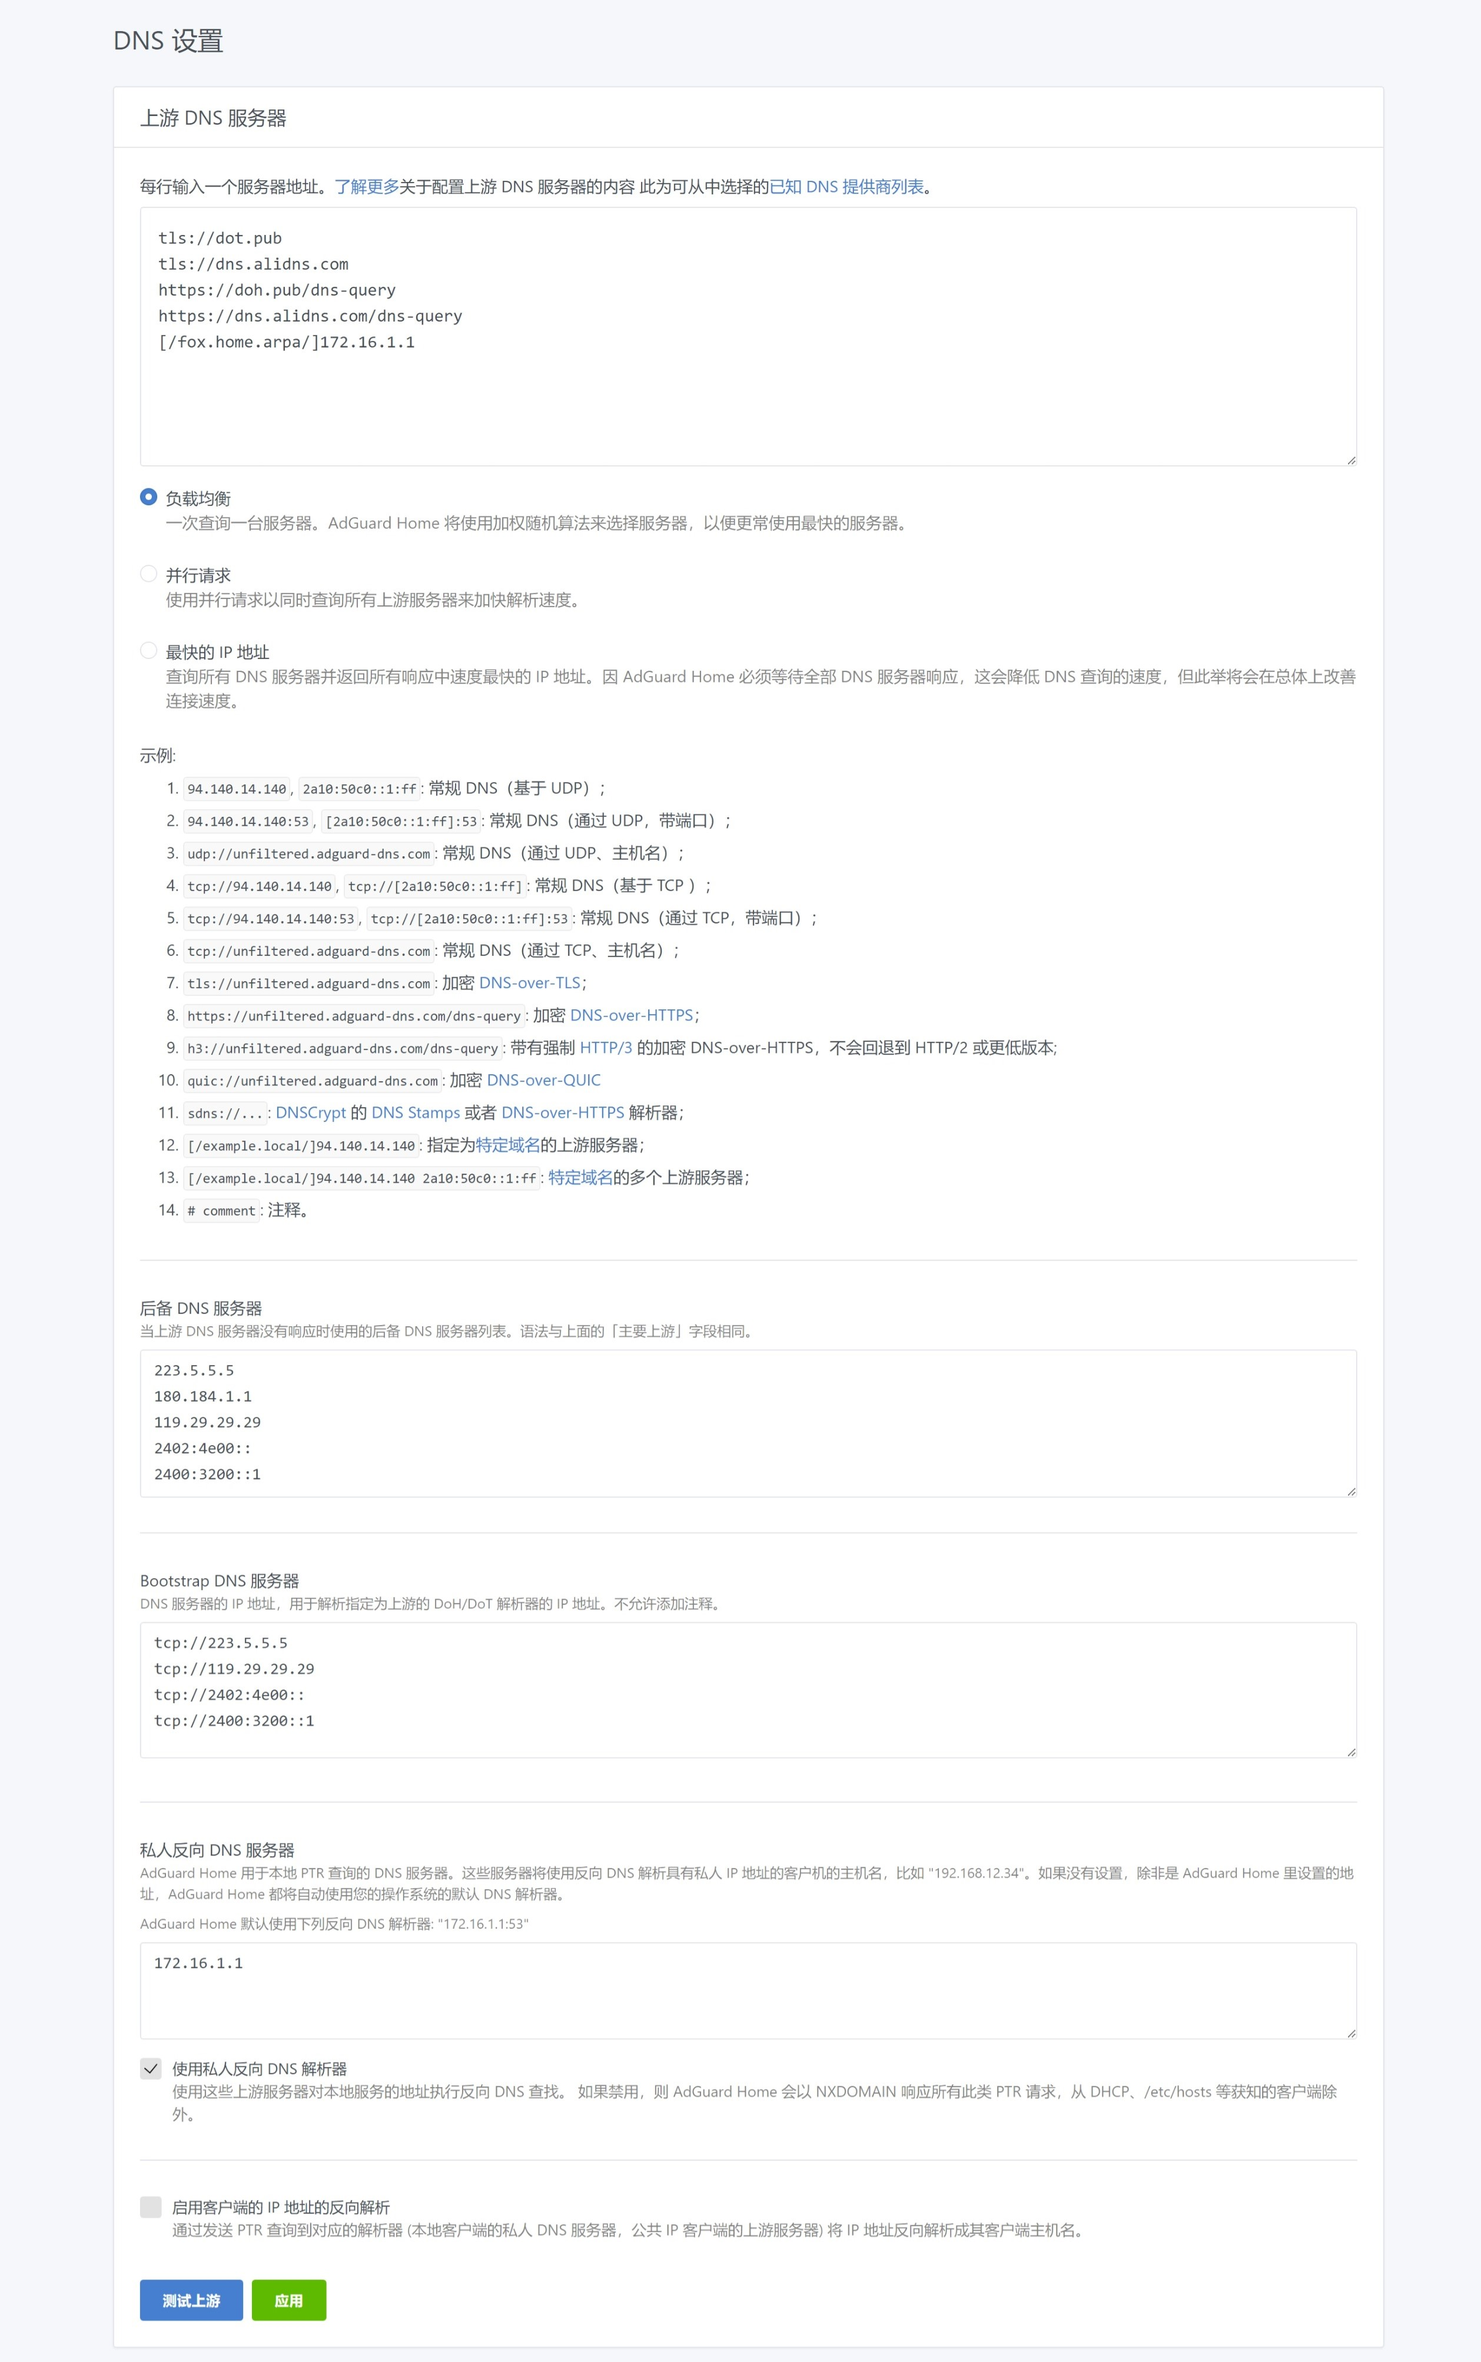
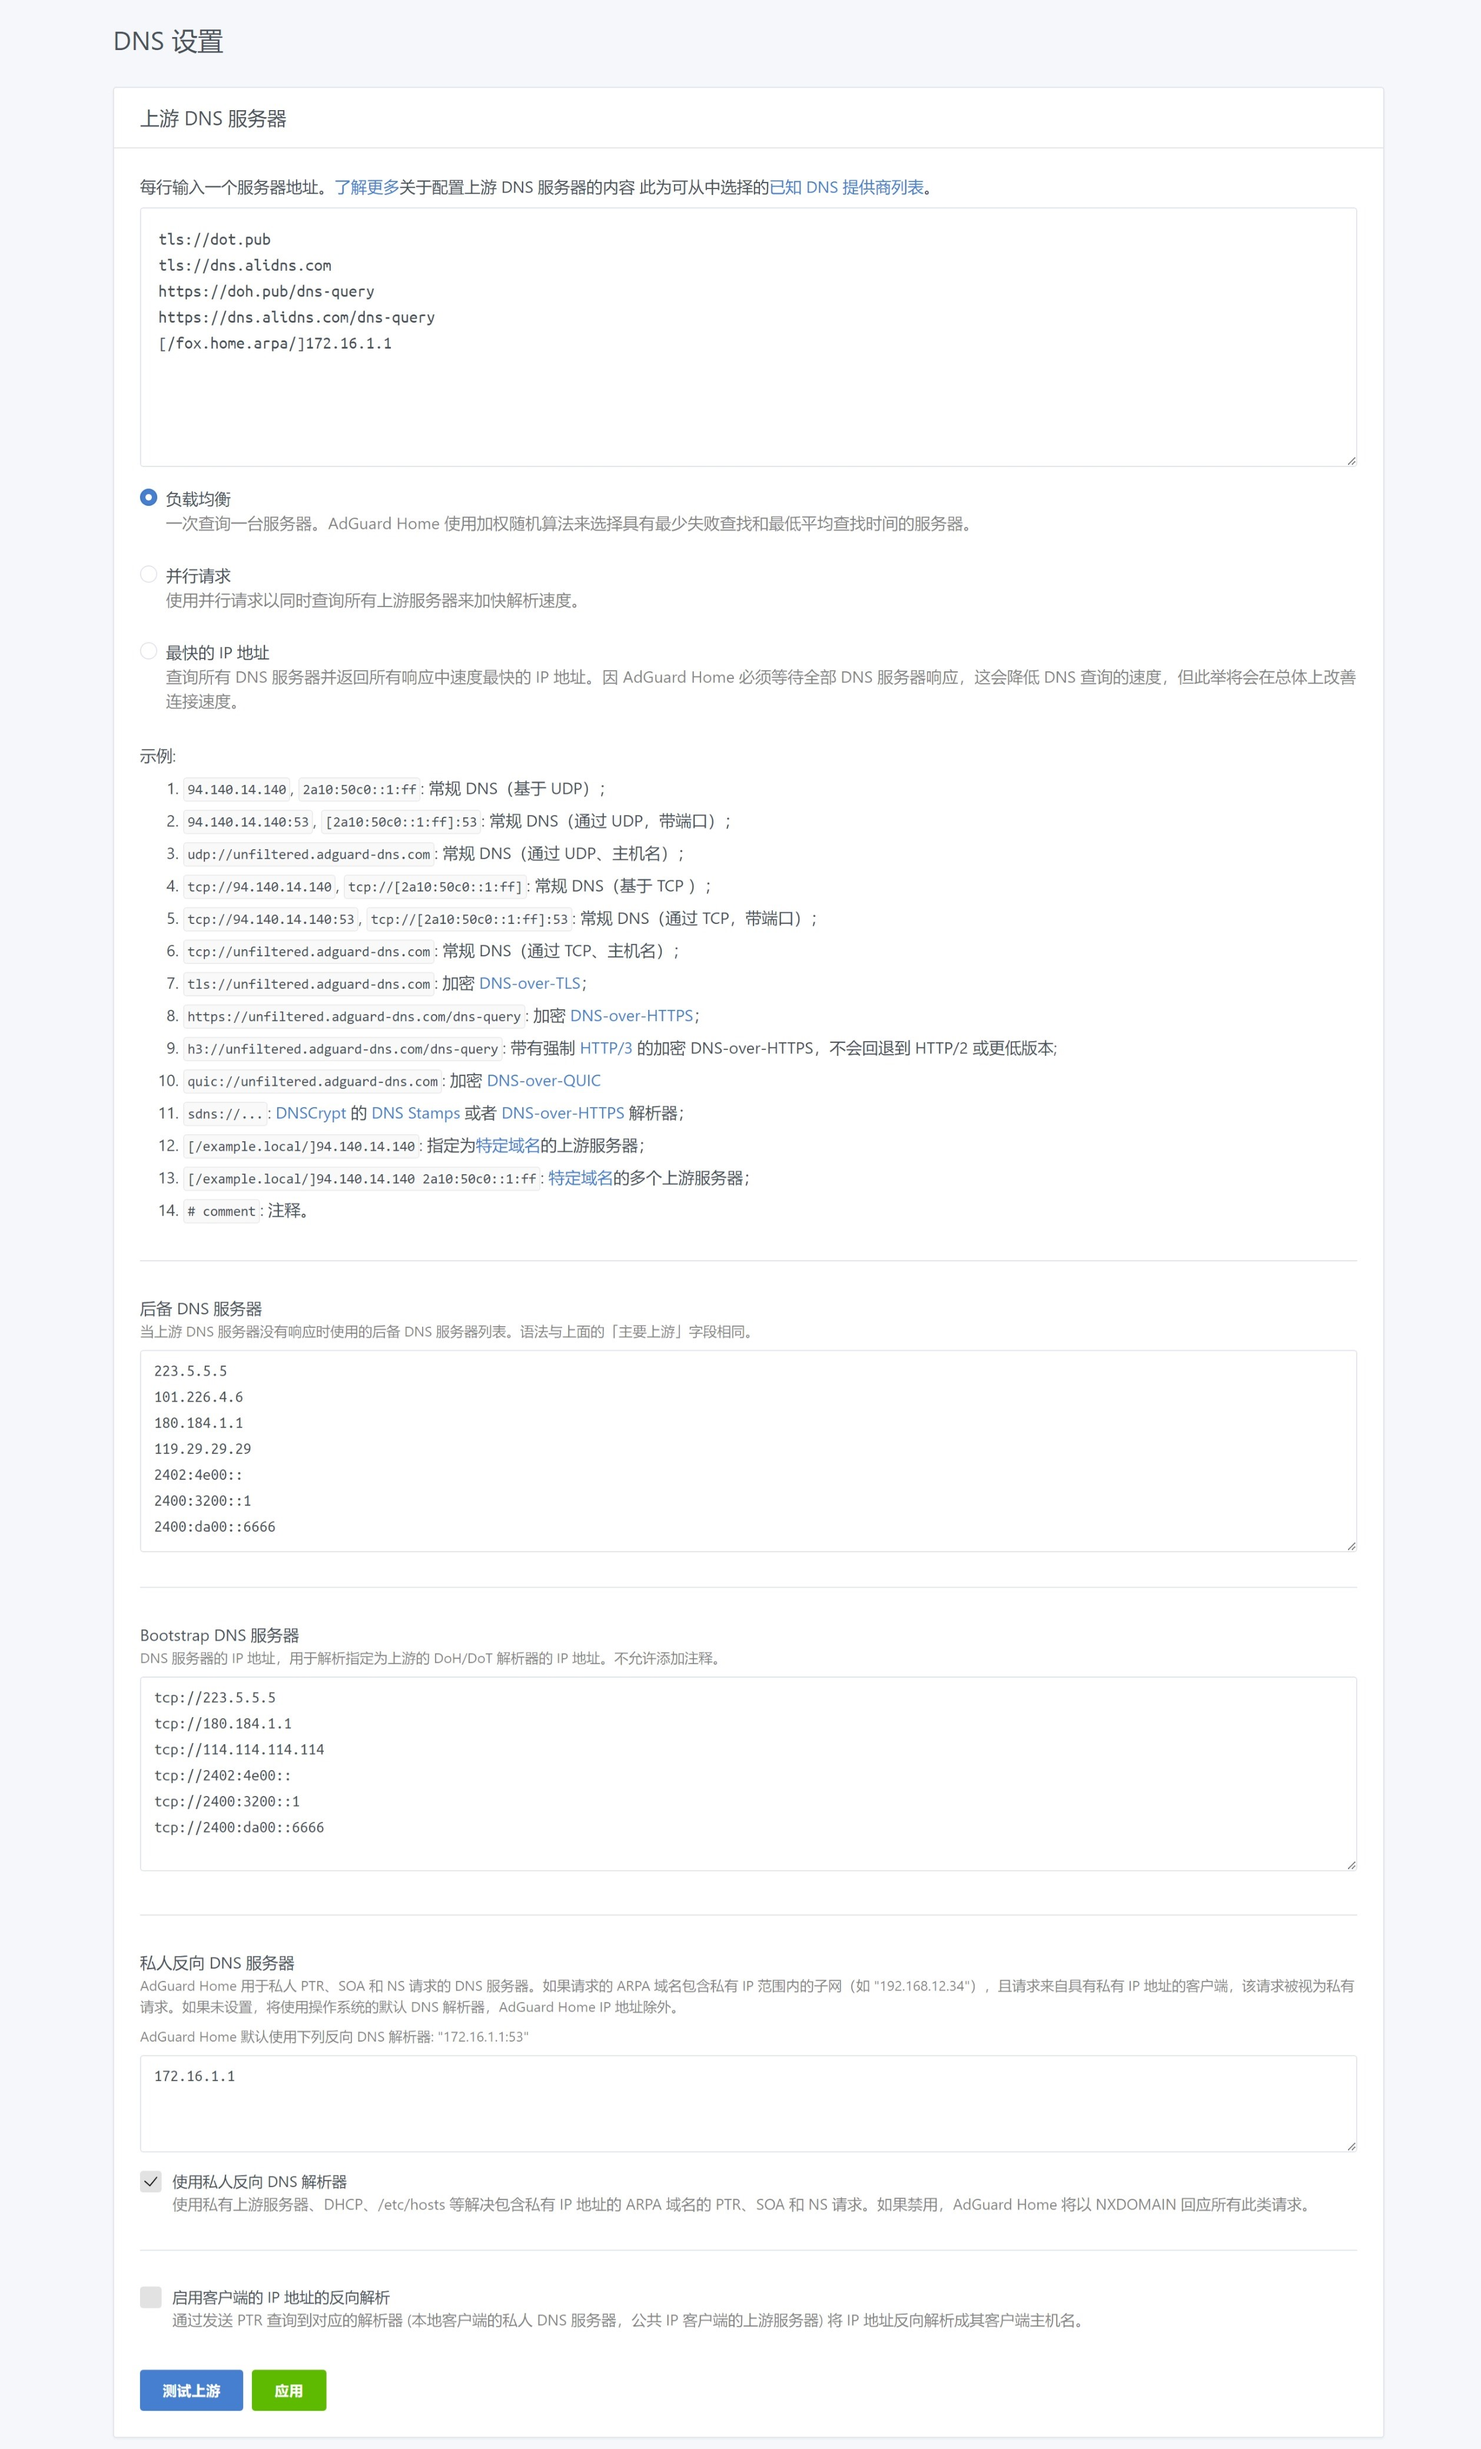
同步更新

diff --git a/01.AGH功能设置.md b/01.AGH功能设置.md
@@ -53,13 +53,11 @@ quic://dns.alidns.com
 tls://dot.pub
 tls://dns.alidns.com
 tls://dot.360.cn
-tls://dns.ipv6dns.com
 
 ## DoH 服务器
 https://doh.pub/dns-query
 https://dns.alidns.com/dns-query
 https://doh.360.cn/dns-query
-https://dns.ipv6dns.com/dns-query
 ```
 
 某些场景下，需额外指定 DNS 服务器来解析内网域名，在 `上游 DNS 服务器` 中添加对应 DNS 服务器参数即可。  
@@ -76,11 +74,14 @@ https://dns.ipv6dns.com/dns-query
 ```bash
 ## 后备 DNS 服务器
 223.5.5.5
+101.226.4.6
 180.184.1.1
+180.76.76.76
 119.29.29.29
 114.114.114.114
 2402:4e00::
 2400:3200::1
+2400:da00::6666
 ```
 
 `Bootstrap DNS 服务器` 用于解析上游 DoQ / DoT / DoH 服务器的 IP 地址，使用国内普通 DNS 服务器即可。  
@@ -88,9 +89,11 @@ https://dns.ipv6dns.com/dns-query
 ```bash
 ## Bootstrap DNS 服务器
 tcp://223.5.5.5
-tcp://119.29.29.29
+tcp://180.184.1.1
+tcp://114.114.114.114
 tcp://2402:4e00::
 tcp://2400:3200::1
+tcp://2400:da00::6666
 ```
 
 `私人反向 DNS 服务器` 用于本地 PTR 查询的 DNS 服务器，一般填写主路由器的 IP 地址即可。  
@@ -106,10 +109,6 @@ tcp://2400:3200::1
 ### 4.2. DNS 服务配置
 
 `速度限制` 参数设为 `150` ，与主路由 DNS 请求速度限制保持一致。  
-
-勾选 `启用 EDNS 客户端子网` 选项，并勾选 `为 EDNS 使用自定义 IP` 选项。  
-
-通常情况下，输入你 **宽带运营商当地** 的 DNS 服务器地址即可，演示中 `202.103.24.68` 为湖北武汉市 DNS 服务器地址。  
 
 如果上游 DNS 服务器支持 `DNSSEC` 协议，可勾选 `启用DNSSEC` 选项。  
 
